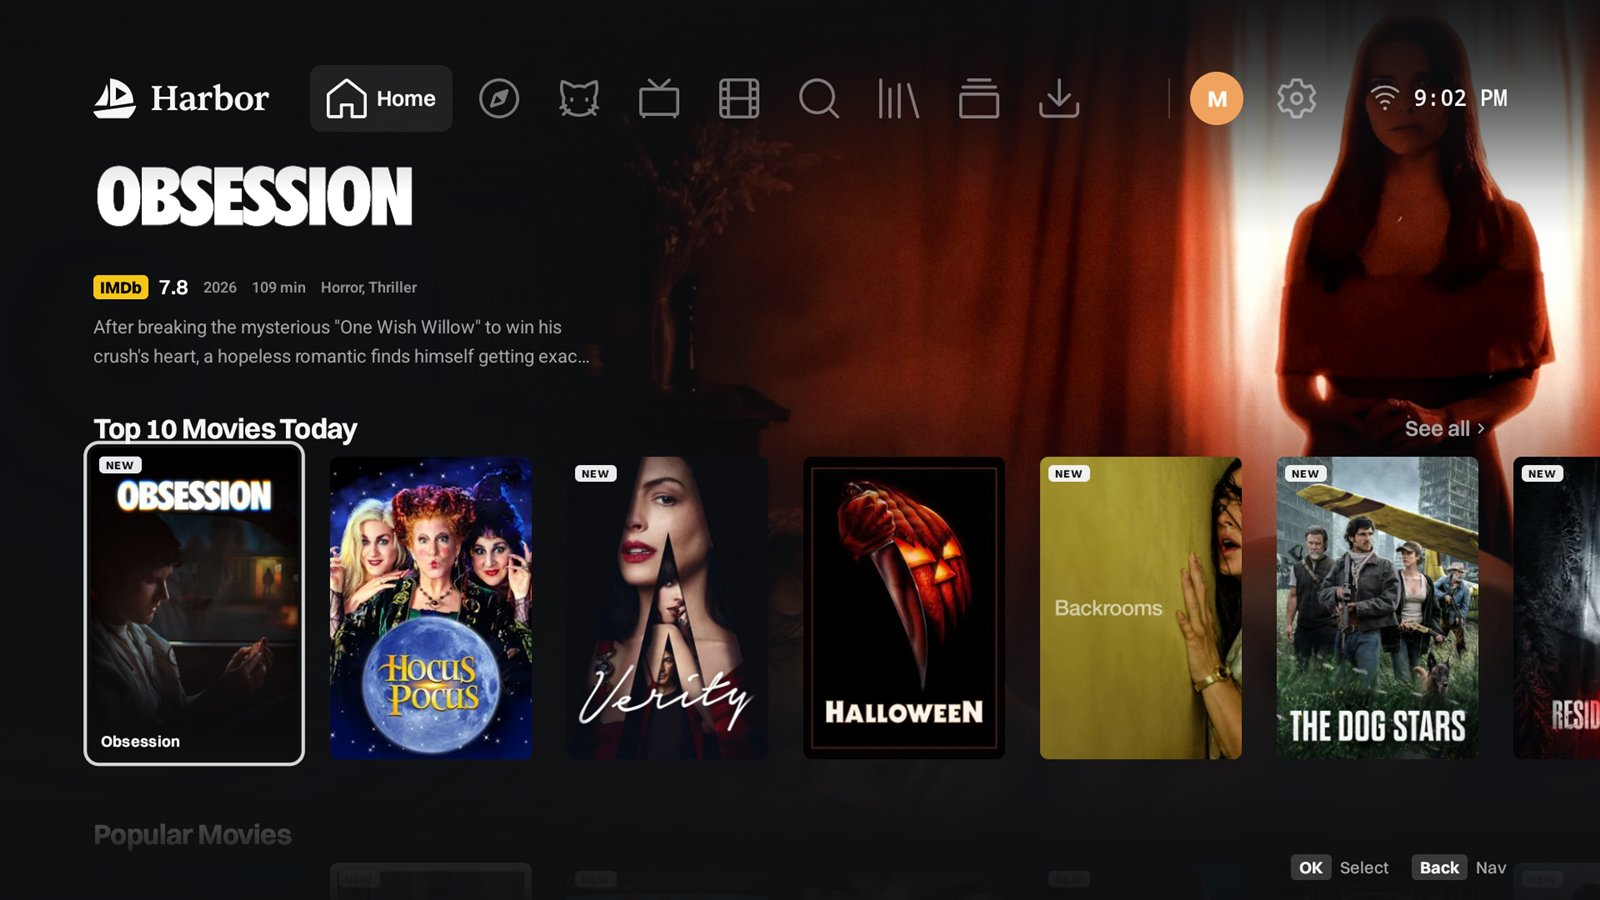
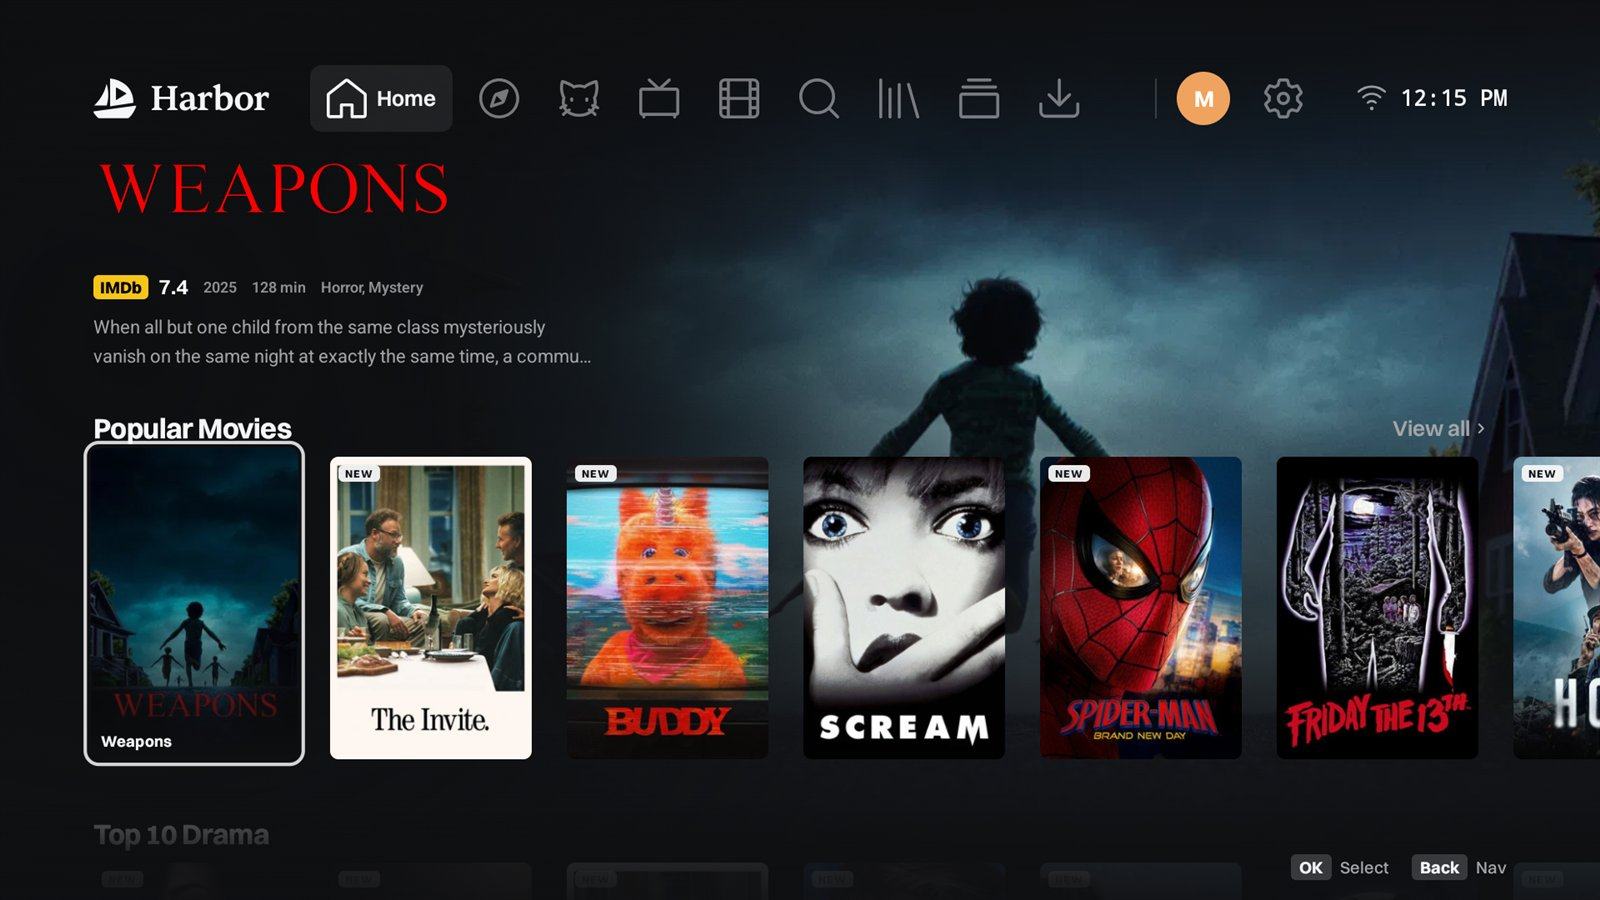
README: new Android TV screenshots
Home with the top menu, the left side menu, an award page, and Settings
with the new language options.

diff --git a/README.md b/README.md
@@ -116,11 +116,21 @@ HARBOR IS AN OPEN CONCEPT AND NOT AN ENTITY. WE DO NOT PROFIT OR ACCEPT MONEY FO
 <tr>
 <td width="50%" align="center">
 <img src="/docs/media/android/tv-home.jpg" width="100%"><br/>
-<sub><b>Android TV</b> &middot; Big Picture Home, made for the remote.</sub>
+<sub><b>Android TV</b> &middot; Big Picture Home with the menu across the top.</sub>
 </td>
 <td width="50%" align="center">
-<img src="/docs/media/android/tv-discover.jpg" width="100%"><br/>
-<sub><b>Android TV</b> &middot; Discover from the top bar.</sub>
+<img src="/docs/media/android/tv-sidebar.jpg" width="100%"><br/>
+<sub><b>Android TV</b> &middot; Or the menu down the left side (Settings &gt; Home &gt; Menu position).</sub>
+</td>
+</tr>
+<tr>
+<td width="50%" align="center">
+<img src="/docs/media/android/tv-awards.jpg" width="100%"><br/>
+<sub><b>Android TV</b> &middot; Award pages, made for the remote.</sub>
+</td>
+<td width="50%" align="center">
+<img src="/docs/media/android/tv-settings.jpg" width="100%"><br/>
+<sub><b>Android TV</b> &middot; Settings, with description, title, and poster language.</sub>
 </td>
 </tr>
 </table>
